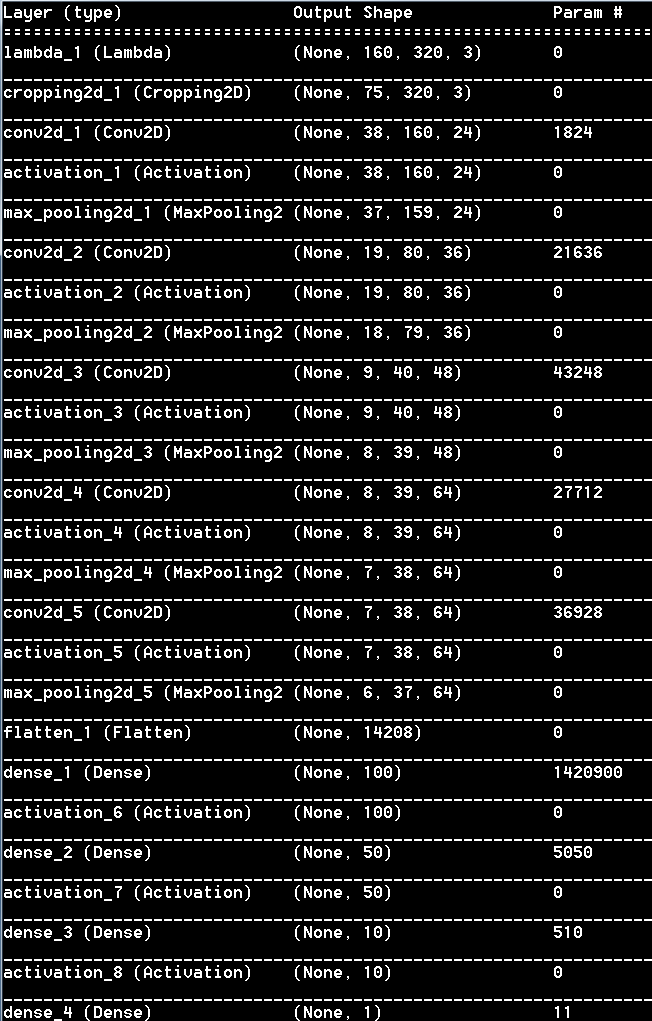
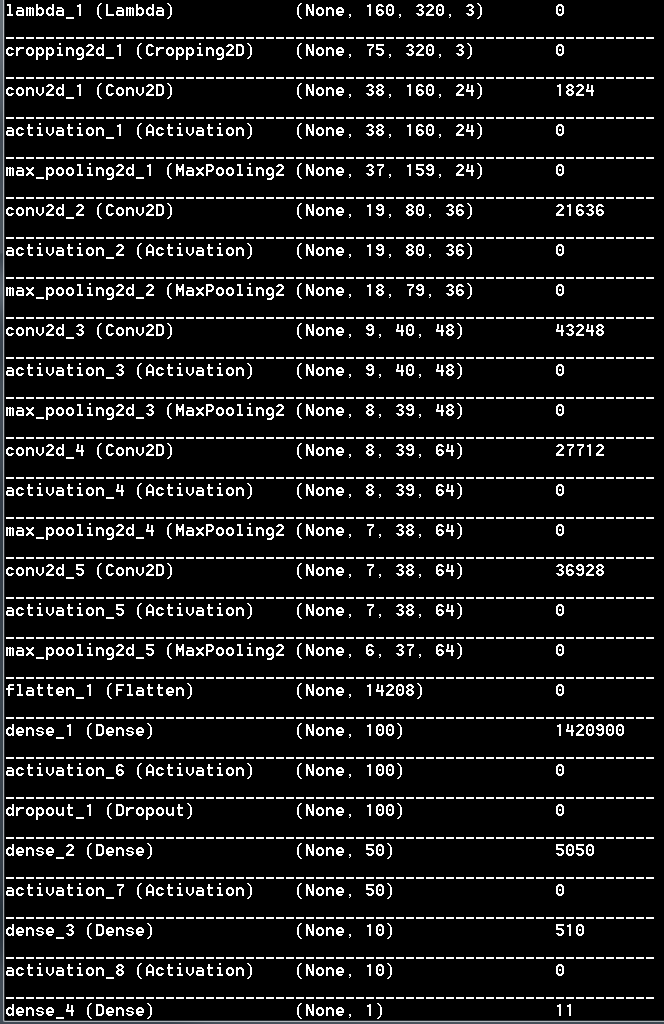
update writeup.md to new model architecture with dropout layer

Changed region(s): [[0.0, 0.0, 1.0, 1.0]]

diff --git a/writeup.md b/writeup.md
@@ -63,9 +63,10 @@ My model is based on the nVIDIA model. It consists of:
 5. Convolution Layer: kernel 3x3, depth: 64, activation: elu, max pooling 2x2
 6. Flatten Layer
 7. Dense Layer: 100, activation: elu
-8. Dense Layer: 50, activation: elu
-9. Dense Layer: 10, activation: elu
-10. Dense Layer: 1
+8. Dropout Layer: dropout rate = 0.1
+9. Dense Layer: 50, activation: elu
+10. Dense Layer: 10, activation: elu
+11. Dense Layer: 1
 
 
 #### 2. Attempts to reduce overfitting in the model
@@ -102,6 +103,7 @@ Next, I cropped the image to get rid of those parts of the image that don't cont
 Then I tried the nVIDIA network instead of the LeNet architecture: With the augmented net, the car was able to go over the bridge.
 
 I collected a few more data until the car was able to accomplish driving the whole track by itself.
+
 
 
 #### 2. Final Model Architecture
